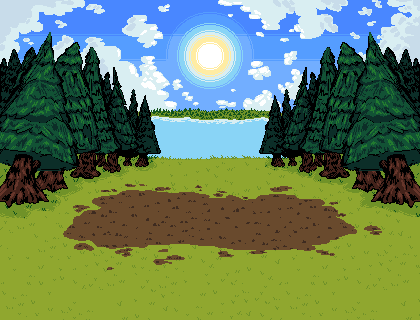
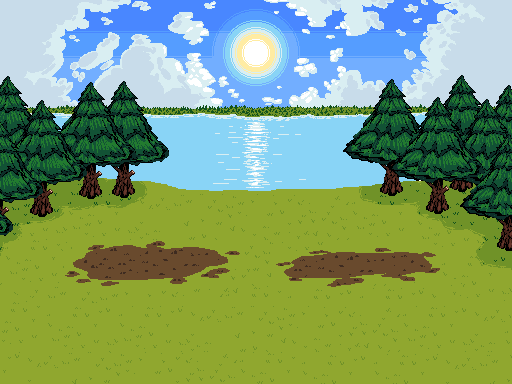
???

diff --git a/src/app/App.jsx b/src/app/App.jsx
@@ -2,14 +2,48 @@ import { useEffect, useMemo, useState } from 'react'
 import { legacyRouteRedirects, routes } from './routes.jsx'
 
 const routeByPath = new Map(routes.map(route => [route.path.toLowerCase(), route]))
+const basePath = normalizeBasePath(import.meta.env.BASE_URL)
+
+function normalizeBasePath(baseUrl) {
+  if (!baseUrl || baseUrl === './') return '/'
+
+  const path = baseUrl.startsWith('http') ? new URL(baseUrl).pathname : baseUrl
+  const withLeadingSlash = path.startsWith('/') ? path : `/${path}`
+  const withoutTrailingSlash = withLeadingSlash.endsWith('/')
+    ? withLeadingSlash.slice(0, -1)
+    : withLeadingSlash
+
+  return withoutTrailingSlash || '/'
+}
 
 function normalizePath(pathname) {
   if (!pathname || pathname === '/') return '/'
   return pathname.endsWith('/') ? pathname.slice(0, -1) : pathname
 }
 
-function cleanLegacyPath(pathname) {
+function stripBasePath(pathname) {
+  if (basePath === '/') return pathname
+
   const normalized = normalizePath(pathname)
+  const lowerPath = normalized.toLowerCase()
+  const lowerBase = basePath.toLowerCase()
+
+  if (lowerPath === lowerBase) return '/'
+  if (lowerPath.startsWith(`${lowerBase}/`)) {
+    return normalized.slice(basePath.length) || '/'
+  }
+
+  return normalized
+}
+
+function withBasePath(pathname) {
+  if (basePath === '/') return pathname
+  if (pathname === '/') return `${basePath}/`
+  return `${basePath}${pathname}`
+}
+
+function cleanLegacyPath(pathname) {
+  const normalized = normalizePath(stripBasePath(pathname))
   return legacyRouteRedirects.get(normalized) || normalized
 }
 
@@ -33,7 +67,7 @@ function getReactPath(href) {
     return null
   }
 
-  return `${pathname}${url.search}${url.hash}`
+  return `${withBasePath(pathname)}${url.search}${url.hash}`
 }
 
 export default function App() {
@@ -42,9 +76,10 @@ export default function App() {
 
   useEffect(() => {
     const cleanPath = cleanLegacyPath(window.location.pathname)
+    const currentPath = normalizePath(stripBasePath(window.location.pathname))
 
-    if (cleanPath !== normalizePath(window.location.pathname)) {
-      window.history.replaceState(null, '', `${cleanPath}${window.location.search}${window.location.hash}`)
+    if (cleanPath !== currentPath) {
+      window.history.replaceState(null, '', `${withBasePath(cleanPath)}${window.location.search}${window.location.hash}`)
     }
   }, [])
 
@@ -74,6 +109,15 @@ export default function App() {
 
     return () => document.removeEventListener('click', handleClick)
   }, [])
+
+  useEffect(() => {
+    for (const anchor of document.querySelectorAll('a[href]')) {
+      const nextPath = getReactPath(anchor.getAttribute('href'))
+      if (nextPath) {
+        anchor.setAttribute('href', nextPath)
+      }
+    }
+  }, [route])
 
   return <Component key={route.path} />
 }

diff --git a/src/pages/animatrix/AnimatrixPageSimple.jsx b/src/pages/animatrix/AnimatrixPageSimple.jsx
@@ -11,8 +11,8 @@ export default function AnimatrixPageSimple() {
     document.body.setAttribute('style', '')
 
     Promise.all([
-      fetch('/data/mates/base.json').then(response => response.json()),
-      fetch('/data/types.json').then(response => response.json()),
+      fetch('data/mates/base.json').then(response => response.json()),
+      fetch('data/types.json').then(response => response.json()),
     ])
       .then(([baseMates, typeData]) => {
         setMates(baseMates || [])
@@ -45,7 +45,7 @@ export default function AnimatrixPageSimple() {
           {mates.map((mate, index) => (
             <article className="card" key={`${mate.name}-${index}`}>
               <div className="card-id">{String(index + 1).padStart(4, '0')}</div>
-              <img src={`/${mate.image}`} alt={mate.name} />
+              <img src={mate.image} alt={mate.name} />
               <h3>{mate.name}</h3>
               <div className="types">
                 {(mate.types || []).filter(Boolean).map(type => (

diff --git a/vite.config.js b/vite.config.js
@@ -2,6 +2,7 @@ import { defineConfig } from 'vite'
 import react from '@vitejs/plugin-react'
 
 // https://vite.dev/config/
-export default defineConfig({
+export default defineConfig(({ command }) => ({
+  base: command === 'build' ? '/UPRO/' : '/',
   plugins: [react()],
-})
+}))